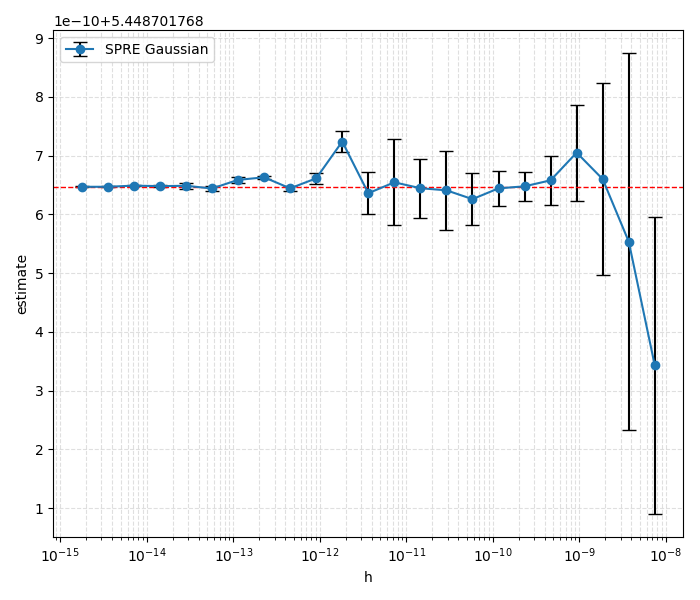
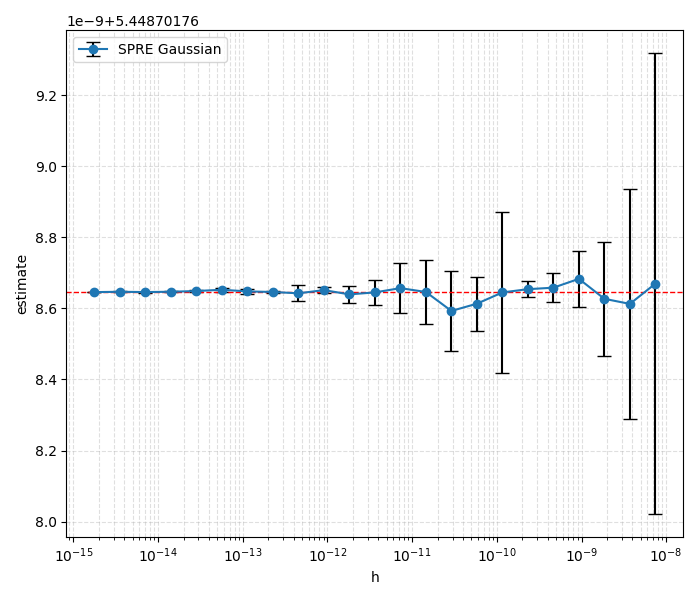
plot updates

diff --git a/src/plot_analysis_results.py b/src/plot_analysis_results.py
@@ -273,7 +273,7 @@ if __name__ == "__main__":
                 markersize=10)
     
     # Plot error bar plot
-    for seed in []:
+    for seed in [1]:
         seed_str = str(seed)
         if seed == 1:
             seed_str = ""
@@ -296,7 +296,7 @@ if __name__ == "__main__":
                             x_lims=(1e-16, 1e-8))
 
     # Compare different methods
-    for seed in [1, 2, 3, 5]:
+    for seed in [1]:
         seed_str = str(seed)
         if seed == 1:
             seed_str = ""
@@ -308,15 +308,15 @@ if __name__ == "__main__":
             f"data/flock/results/output{seed_str}_flock_abs_errors_eval_321_Matern12.dat",
             f"data/flock/results/output{seed_str}_flock_abs_errors_eval_321_Matern32.dat",
             f"data/flock/results/output{seed_str}_flock_abs_errors_eval_321_MRE.dat",
-            #f"data/flock/results/output{seed_str}_flock_abs_errors_eval_321_GRE.dat",
+            f"data/flock/results/output{seed_str}_flock_abs_errors_eval_321_GRE.dat",
         ]
 
         h_columns = ["h"] * len(files)
 
-        labels = ["SPRE White", "SPRE Gaussian",  "SPRE Matern1/2", "SPRE Matern3/2", "MRE"]#, "GRE White"] # , "SPRE GaussianARD",
-        title ="Absolute Errors of Estimates"
+        labels = ["SPRE White", "SPRE Gaussian",  "SPRE Matern1/2", "SPRE Matern3/2", "MRE", "GRE White"] # , "SPRE GaussianARD",
+        title = None #"Absolute Errors of Estimates"
         markers = itertools.cycle(('o', 's', 'v', '^', '+', 'x', '*'))
-        plot_multiple_spre_abs(files, h_columns, labels, f"data/plots/spre_3_parameters_seed{seed}.png", plot_raw_estimates=True,      
+        plot_multiple_spre_abs(files, h_columns, labels, f"data/plots/spre_3_parameters_seed{seed}.png", plot_raw_estimates=True, title=title,     
                 marker=markers,
                 linewidth=2,
                 markersize=10)
